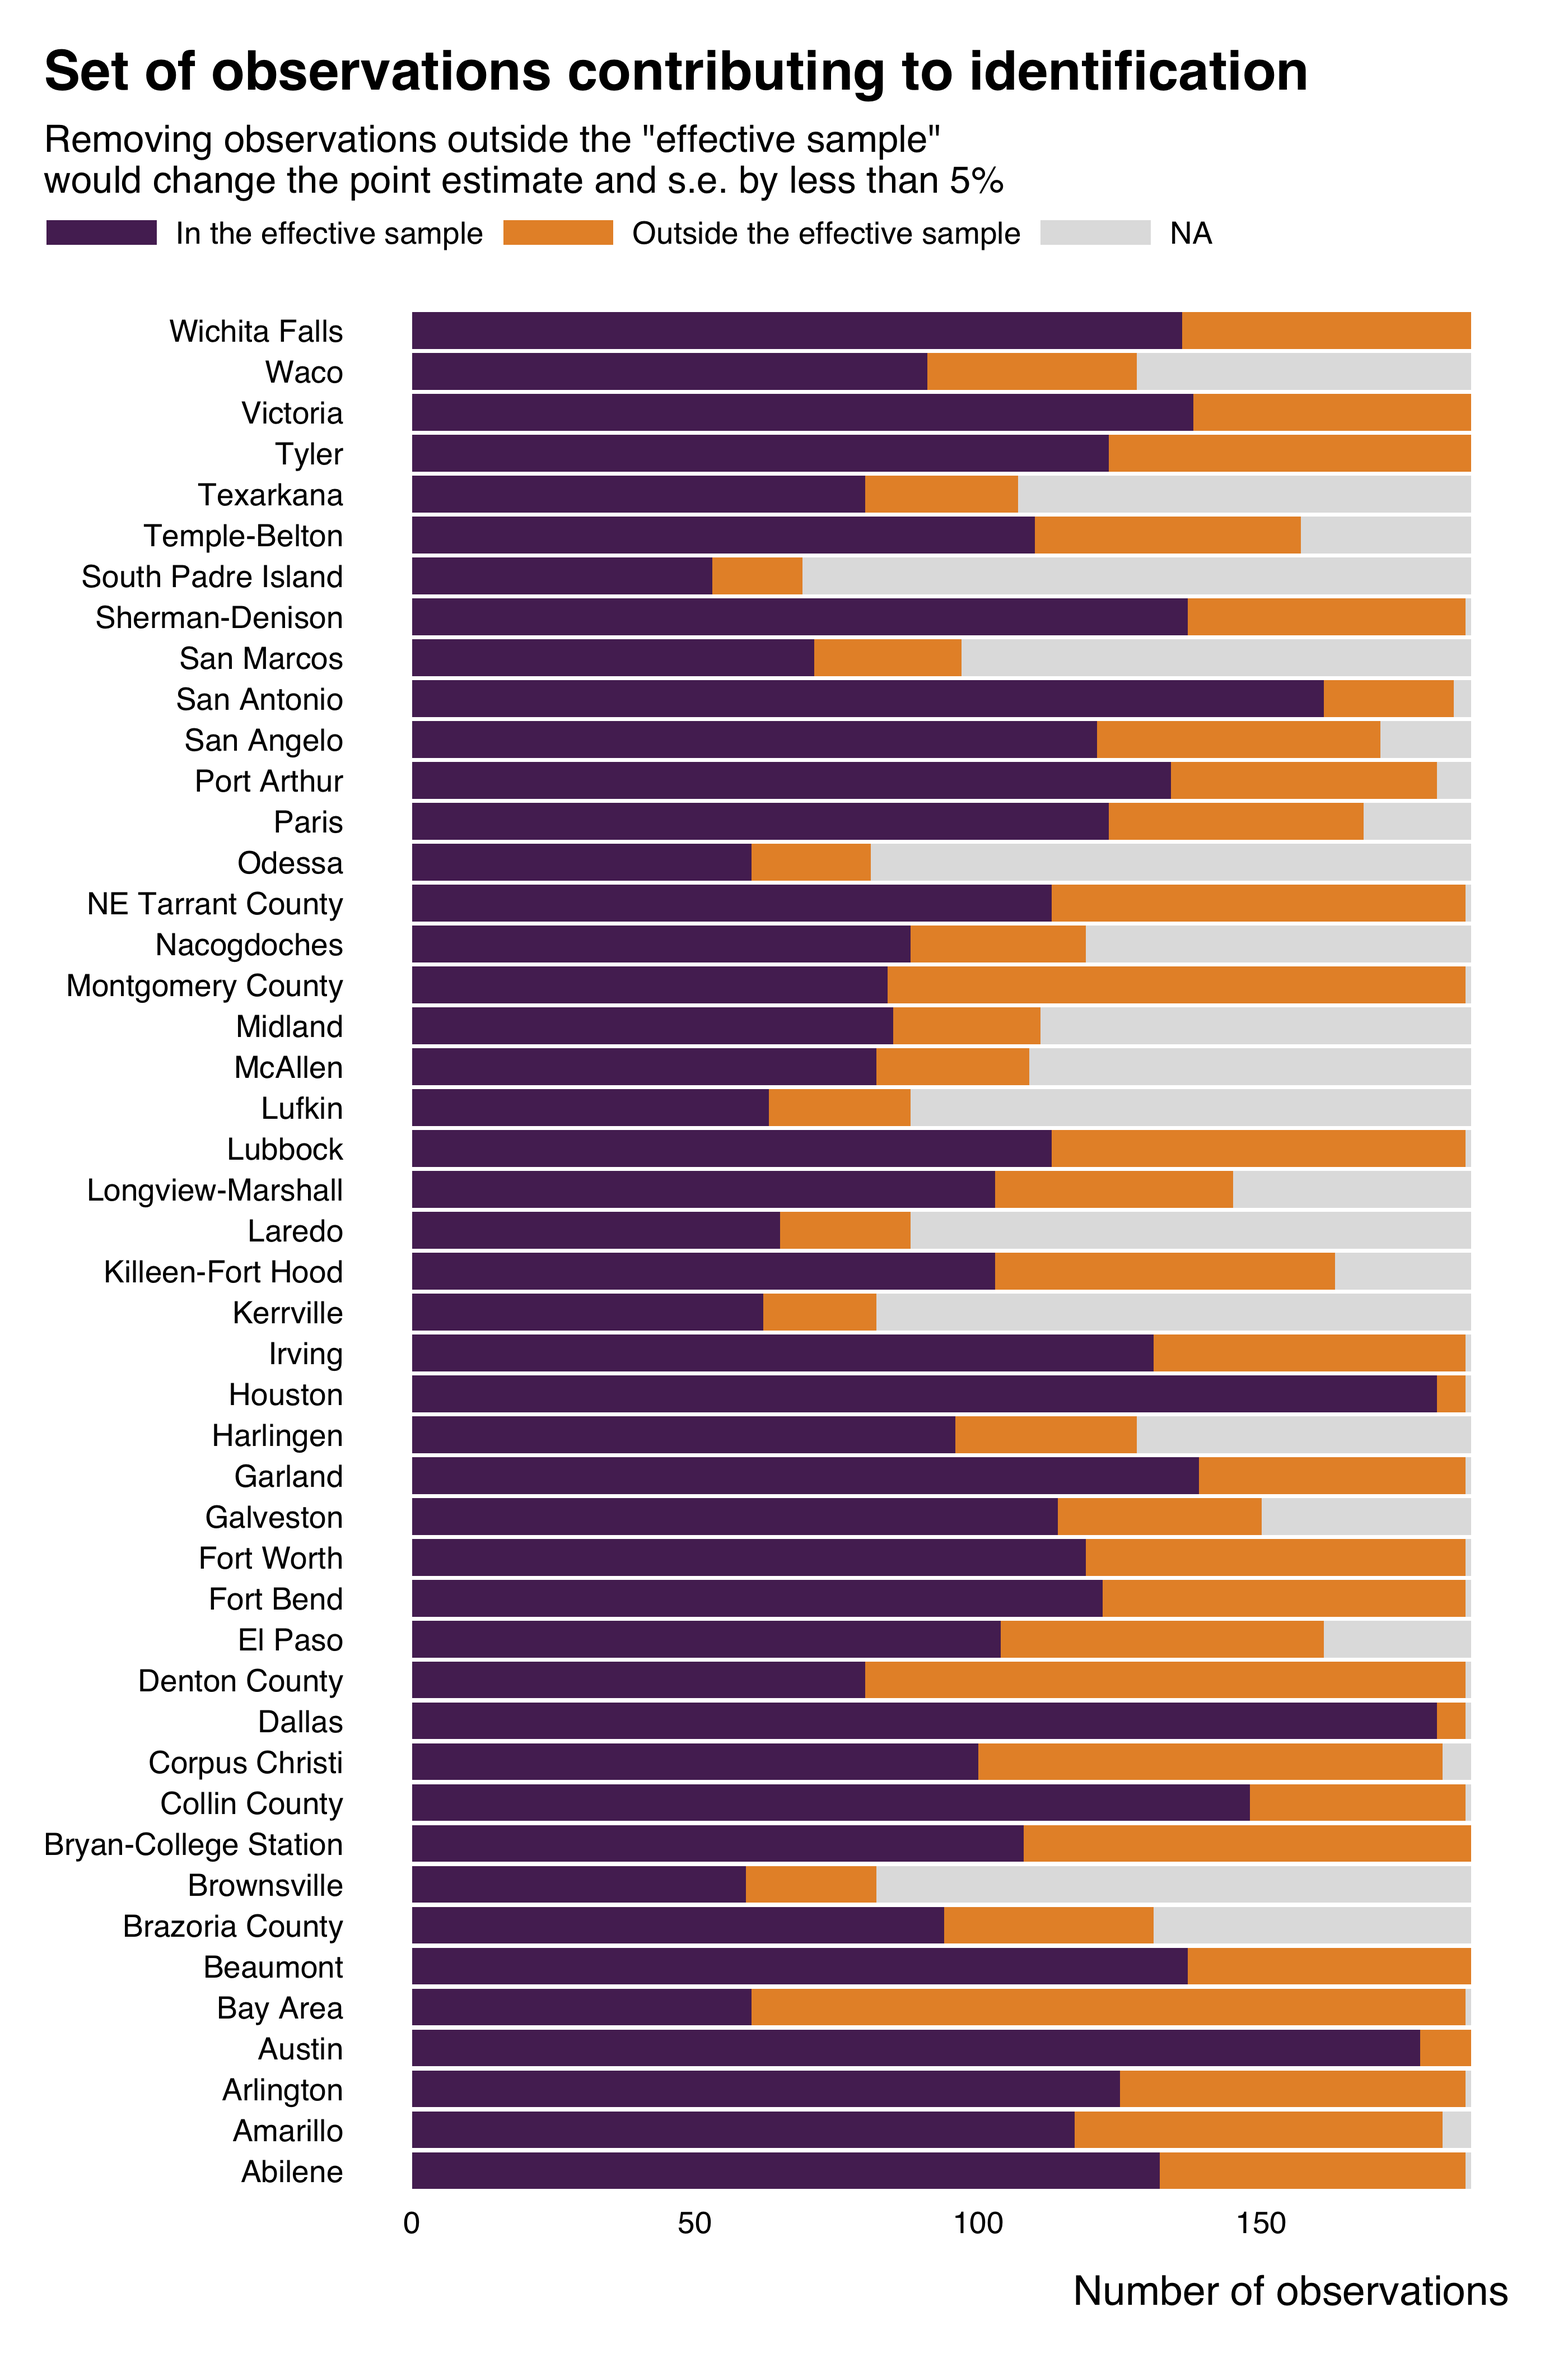
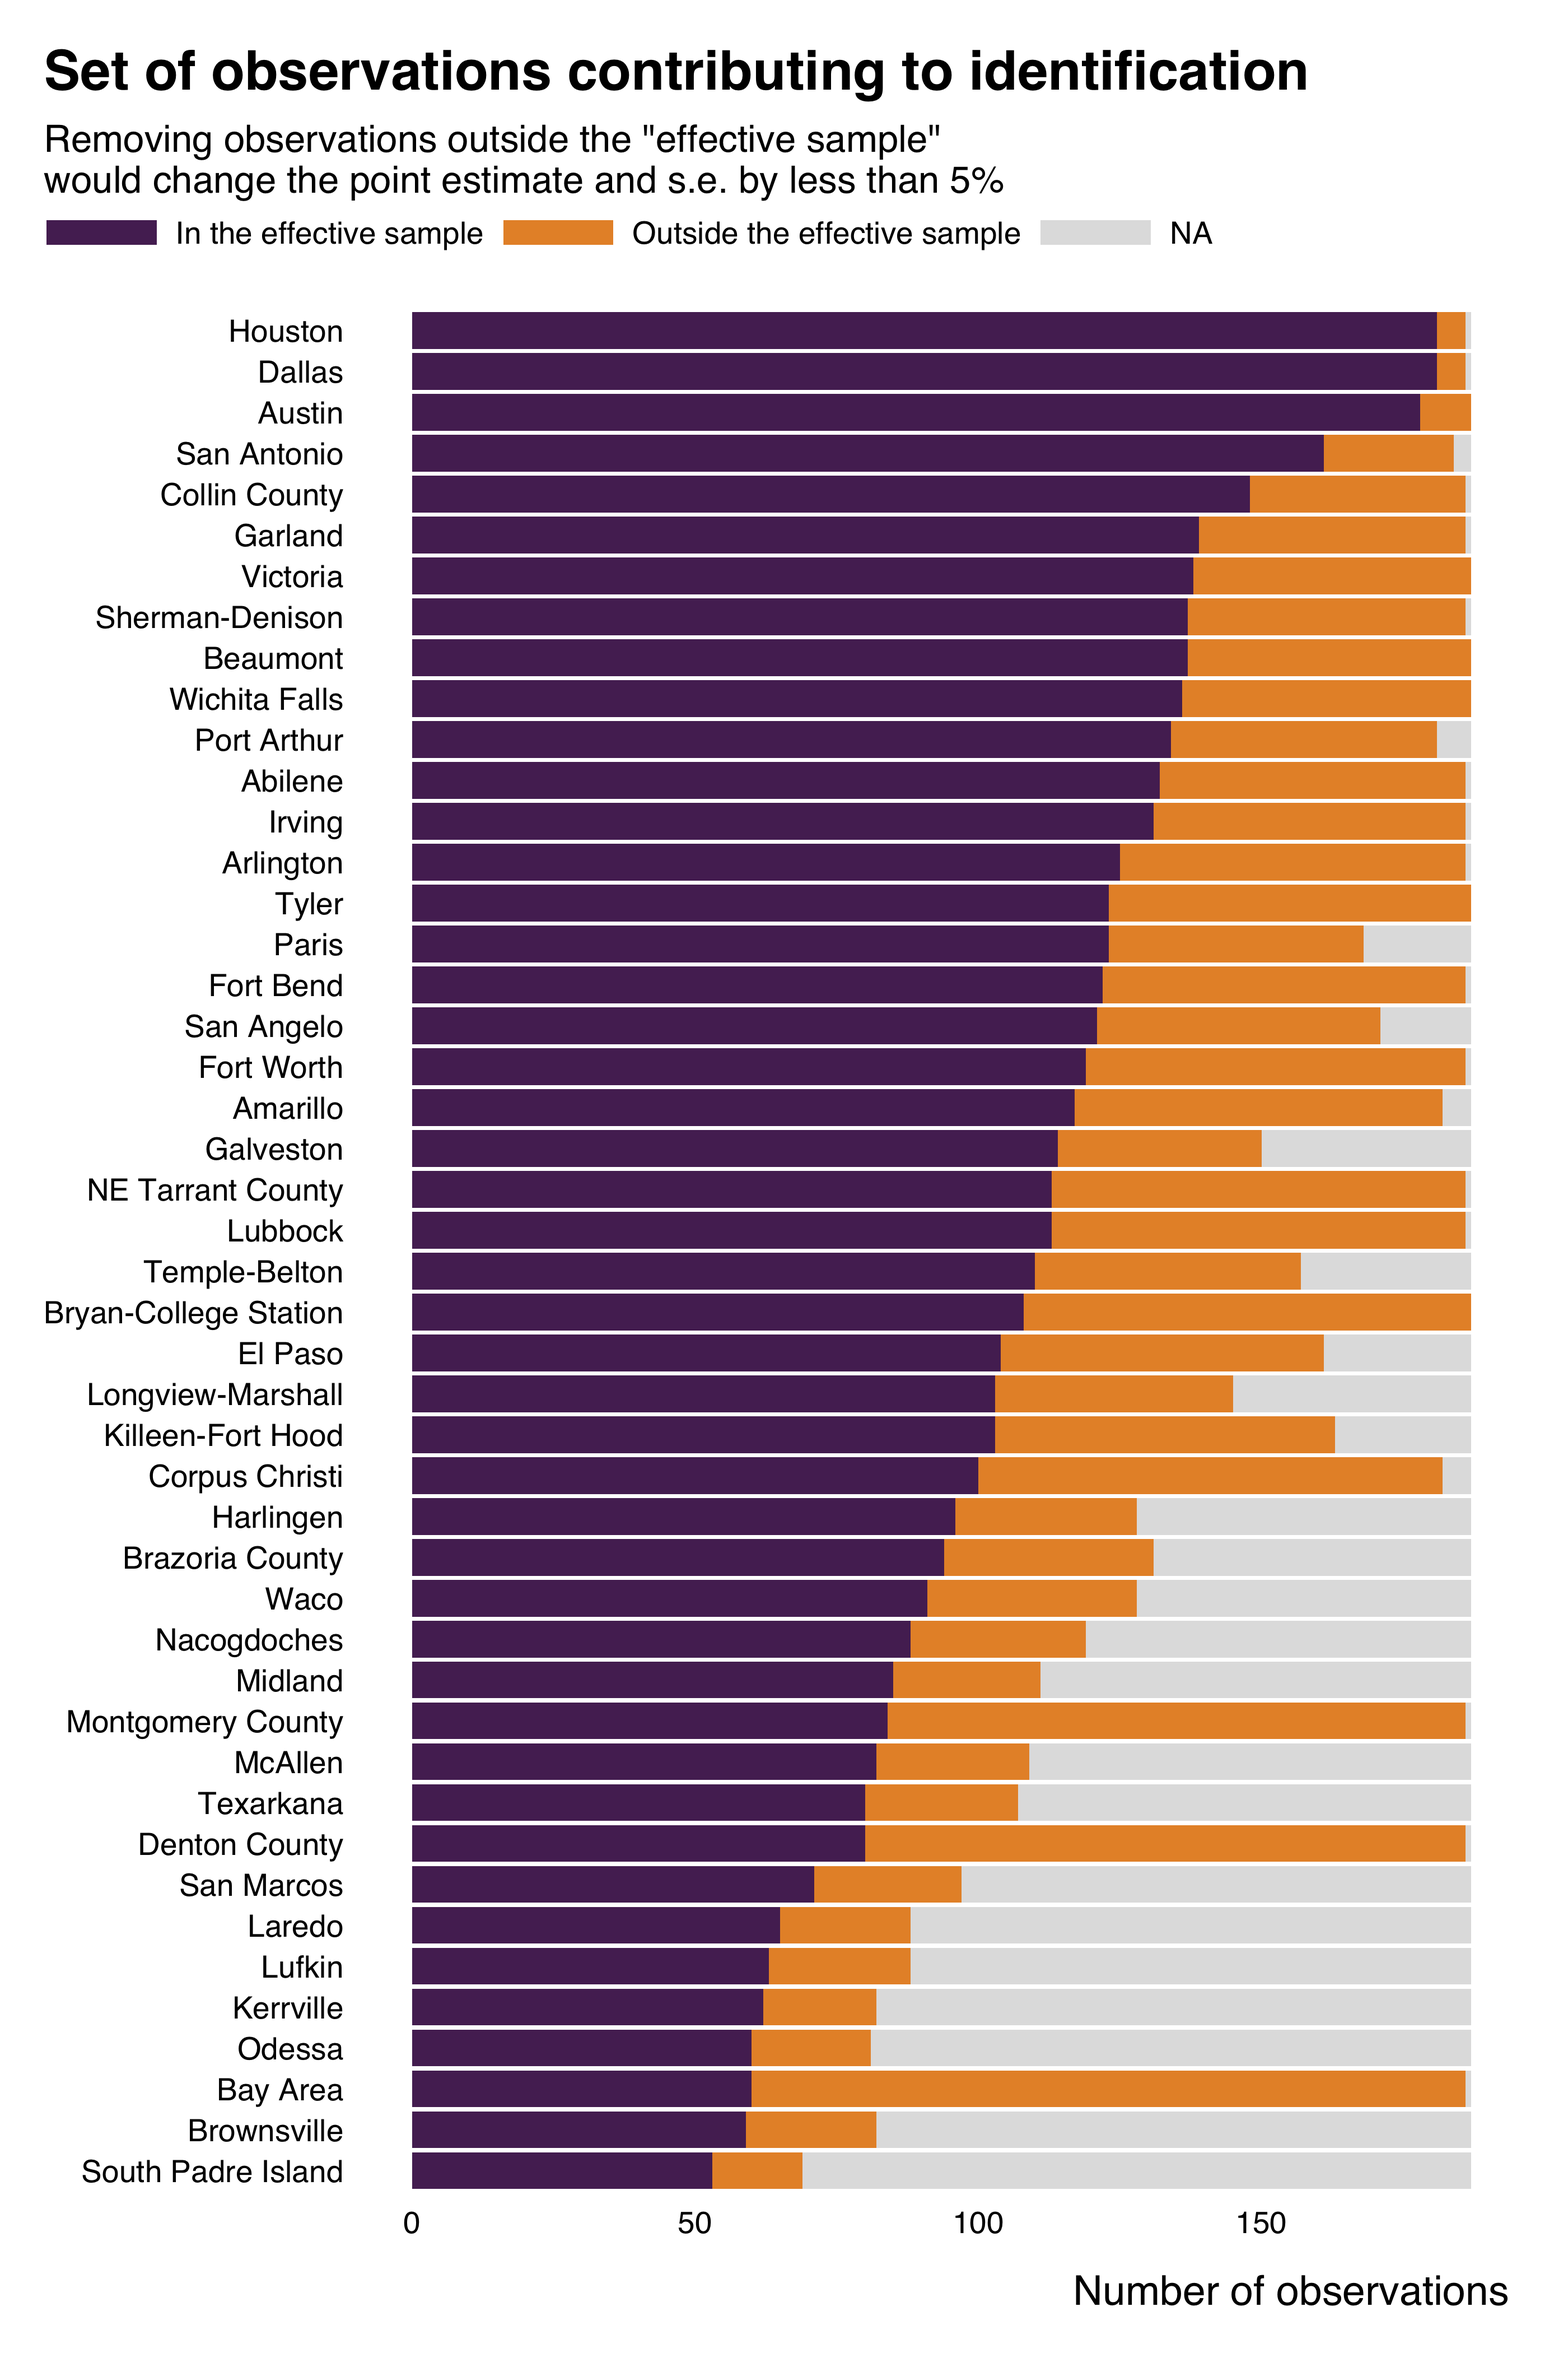
Adding some test and first try at handling environments

Changed region(s): [[0.435, 0.1248, 0.9632, 0.9357], [0.0311, 0.2807, 0.2175, 0.9357], [0.0621, 0.1248, 0.2175, 0.2495]]

diff --git a/README.md b/README.md
@@ -41,9 +41,9 @@ identifying variation weights.
 
 ``` r
 library(ididvar)
+library(ggplot2)
 
 reg_ex_fixest <- ggplot2::txhousing |>
-  # dplyr::mutate(volume = log(median), sales = log(sales)) |> 
   fixest::feols(fml = volume ~ sales + listings |  as.factor(date) + city)
 
 idid_weights(reg_ex_fixest, "sales") |>
@@ -56,8 +56,6 @@ The package also allows for an effortless exploration of these weights
 through visualizations.
 
 ``` r
-library(ggplot2)
-
 idid_viz_weights(reg_ex_fixest, "sales", date, city, order = "y") +
   ggplot2::labs(x = NULL, y = NULL) 
 ```
@@ -79,9 +77,8 @@ contribute to identification (in the sense that dropping the other
 observations does not significantly affect the estimate obtained).
 
 ``` r
-idid_viz_contrib(reg_ex_fixest, "sales", city) +
-  ggplot2::labs(x = NULL) +
-  ggplot2::coord_flip()
+idid_viz_contrib(reg_ex_fixest, "sales", var_y = city, order = "y") +
+  ggplot2::labs(y = NULL)
 ```
 
 <img src="man/figures/README-plot_contrib-1.png" width="70%" style="display: block; margin: auto;" />
